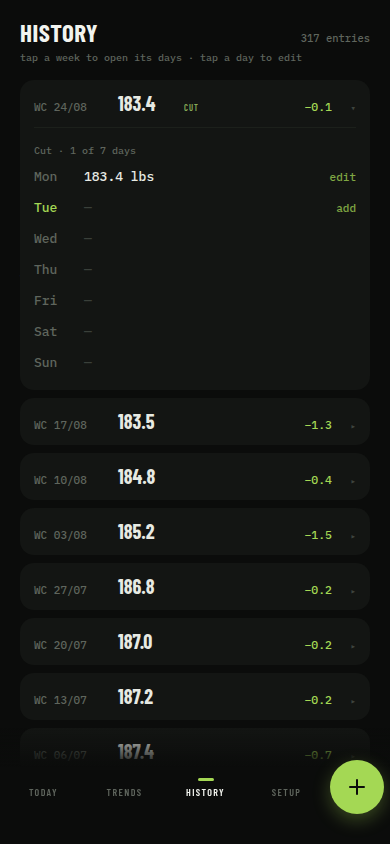
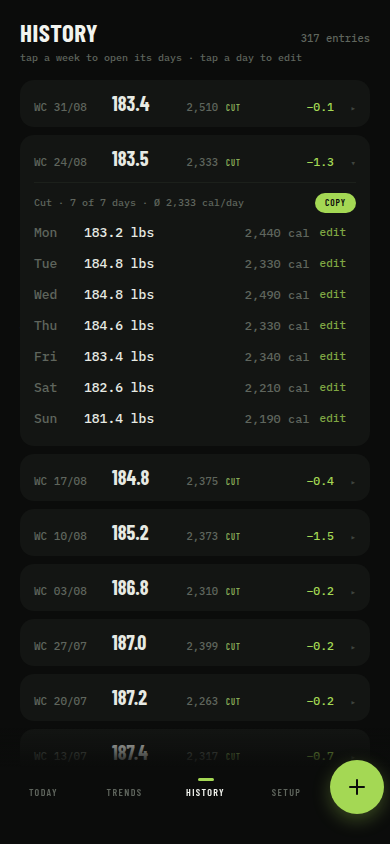
Document the calories feature in the README; refresh screenshots
- add the MyFitnessPal / Health Connect calorie feature to the intro,
  stack, project layout, and Android sections (it had no mention)
- fix the test-suite description (also covers energy + reducer)
- regenerate all four screen captures: they predated the calorie UI in
  History/Setup and the merged fit+projection trend line on Trends

diff --git a/README.md b/README.md
@@ -5,6 +5,10 @@ progress by the 7-day rolling average (not the noisy daily number), see weekly a
 with a line of best fit, and ask "if this continues, when do I hit X?" in both directions — set a
 target weight and get a date, or set a date and get a projected weight.
 
+On Android it also reads your daily calories from MyFitnessPal (via Health Connect) and turns the
+weight trend plus intake into an adaptive-TDEE maintenance estimate and a calorie target for your
+weekly goal.
+
 Ships as a web PWA and as a native Android app via Capacitor.
 
 <p align="center">
@@ -22,6 +26,9 @@ Ships as a web PWA and as a native Android app via Capacitor.
   offline write queue in front of it — logging a weigh-in works with no network and syncs when
   back online.
 - **Capacitor** wraps the same web build as a native Android app.
+- **Health Connect** (Android only) through a small custom Kotlin plugin
+  (`android/app/src/main/java/com/blurryq/weighttracker/HealthConnectPlugin.kt`) reads
+  MyFitnessPal's daily calorie totals; the energy-balance math is in `src/lib/energy.ts`.
 - Charts are hand-rolled inline SVG (`src/lib/chartGeometry.ts` + `src/components/chart/`) — no
   charting library.
 
@@ -30,9 +37,9 @@ Ships as a web PWA and as a native Android app via Capacitor.
 ```
 src/
   lib/        pure, unit-tested math: rolling averages, phase spans, least-squares fit,
-              the bidirectional Reach solver, chart geometry
+              the bidirectional Reach solver, chart geometry, adaptive-TDEE energy math
   store/      state shape + reducer + the AppContext that wires in persistence/sync
-  data/       Supabase client, offline queue, sync, auth gate
+  data/       Supabase client, offline queue, sync, auth gate, Health Connect bridge
   components/ shared UI (nav, chart, entry sheet, ui primitives)
   screens/    Today, Trends, History, Setup
 tests/        vitest, run against a fixture of 317 real weigh-ins (tests/fixtures/weight-data.ts)
@@ -62,7 +69,7 @@ Supabase CLI once you're linked to a project). `0001_init.sql` creates the core 
 ### Other scripts
 
 ```bash
-npm test     # vitest — math/chart geometry tests against the real 317-entry fixture
+npm test     # vitest — pure-function tests (math, chart geometry, energy, reducer) vs. the real 317-entry fixture
 npm run lint # oxlint
 npm run build
 ```
@@ -79,6 +86,9 @@ adb install -r app/build/outputs/apk/debug/app-debug.apk
 Needs a JDK (not just a JRE) and the Android SDK on `$ANDROID_HOME`. The debug APK is unsigned —
 fine for sideloading to your own device, but a release build needs a signing key before wider
 distribution.
+
+The calories feature needs the `READ_NUTRITION` Health Connect permission, requested from the
+Setup screen's "Calories" section. On web builds that section just shows an "Android only" note.
 
 Magic-link sign-in on native builds redirects through a custom `weighttracker://login-callback`
 URL scheme (see `src/data/AuthGate.tsx` and the intent-filter in
